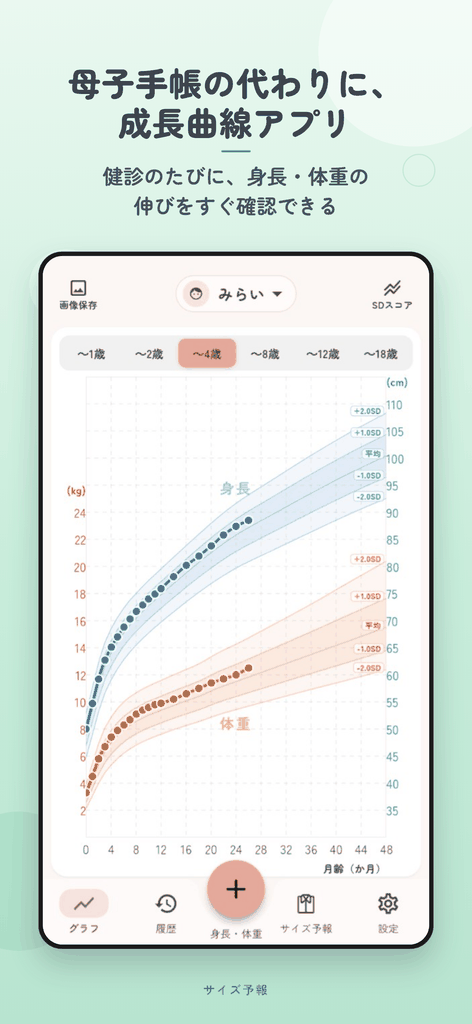
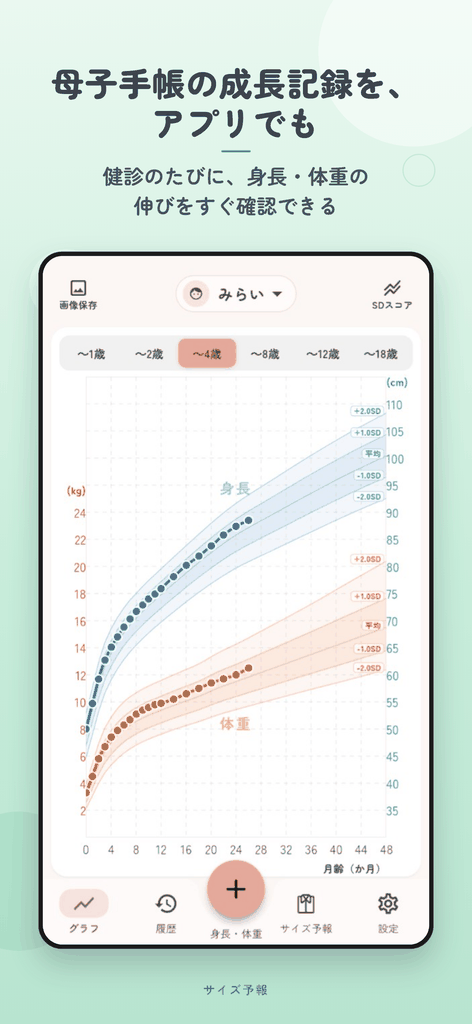
サイトとアプリの文言を信頼感重視で見直し
サイト：開発者紹介を「サイズ予報を作った理由」に書き換え、
スライドの「母子手帳の代わりに」を「母子手帳の成長記録を、アプリでも」に変更、
成長曲線の根拠を「日本小児内分泌学会が公開する標準値」に統一、
サブスク説明の短縮（24時間前表記を削除）、自動バックアップに（写真を除く）を明記、
料金カードに広告あり・「無料版の全機能に加えて」を追記、FAQの入れ替え、
表記統一（Pro版・App Store・Google Play・0円・月額100円）、
リリース通知のメール取得目的をプライバシーポリシーに追記。
アプリ：根拠説明・ペイウォールの定期購入説明・写真除外の注記・ストア名表記を同様に修正。

Changed region(s): [[0.1186, 0.0625, 0.8305, 0.1562]]

diff --git a/docs/index.html b/docs/index.html
@@ -381,6 +381,17 @@
     .plan-card.pro h3 { color: var(--gold); }
     .plan-card.pro .plan-price { color: #8A7B55; }
     .plan-card.pro li::before { content: "✨ "; }
+    .plan-card .plan-lead {
+      font-size: 0.88rem;
+      font-weight: 700;
+      color: #55606B;
+      margin-bottom: 8px;
+    }
+    .plan-card .plan-note {
+      font-size: 0.8rem;
+      color: #777;
+      margin-top: 10px;
+    }
 
     /* ── 比較表 ── */
     .compare-wrap { overflow-x: auto; }
@@ -531,7 +542,7 @@
   <div class="container">
     <section>
       <h2>服・靴・おむつ、3つのサイズ予報</h2>
-      <p class="lead">「気づいたら小さくなっていた」を、記録から先回り。主役はこの3つです。</p>
+      <p class="lead">「気づいたら小さくなっていた」を、成長の記録から先回りします。</p>
       <div class="features">
         <div class="feature">
           <span class="icon" aria-hidden="true"><svg viewBox="0 0 24 24"><path d="M8.2 4 4.5 7.3l2 2.6L8 8.8V20h8V8.8l1.5 1.1 2-2.6L15.8 4c-.9 1.4-2.2 2.1-3.8 2.1S9.1 5.4 8.2 4Z"/></svg></span>
@@ -557,13 +568,13 @@
 
   <div class="container-wide">
     <section class="screenshots-section">
-      <h2>こんなアプリです</h2>
+      <h2>画面で見る、サイズ予報</h2>
       <div class="screenshot-carousel" id="screenshot-carousel" tabindex="0" role="group" aria-roledescription="カルーセル" aria-label="アプリのスクリーンショット">
         <figure class="screenshot-slide">
-          <img src="store-assets/slide-05-overview.png" alt="成長曲線で、服・靴・おむつのサイズを予報" width="472" height="1024" loading="eager">
+          <img src="store-assets/slide-05-overview.png" alt="服・靴・おむつのサイズを、まとめて予報" width="472" height="1024" loading="eager">
         </figure>
         <figure class="screenshot-slide">
-          <img src="store-assets/slide-01-growth-curve.png" alt="母子手帳の成長曲線、アプリでかんたん記録" width="472" height="1024" loading="lazy">
+          <img src="store-assets/slide-01-growth-curve.png" alt="母子手帳の成長記録を、アプリでも" width="472" height="1024" loading="lazy">
         </figure>
         <figure class="screenshot-slide">
           <img src="store-assets/slide-02-sd-score.png" alt="健診の準備に、成長の記録を" width="472" height="1024" loading="lazy">
@@ -595,7 +606,7 @@
         <h2>はじめかた（3ステップ）</h2>
         <div class="steps">
           <div class="step"><strong>お子様を登録</strong>：生年月日と性別に加え、アイコンとテーマカラーも選べます。きょうだいの登録もOK。早産児の場合は修正月齢の設定もできます。</div>
-          <div class="step"><strong>身長・体重・足長を記録</strong>：健診や身体測定のタイミングでOK。数回の記録から傾向をつかみます。</div>
+          <div class="step"><strong>身長・体重・足長を記録</strong>：健診や身体測定のタイミングでOK。まず1件の記録から使えます。</div>
           <div class="step"><strong>予報をチェック</strong>：洋服・おむつサイズの目安を確認。靴の次の購入予報はPro版で表示されます。</div>
         </div>
       </section>
@@ -609,13 +620,8 @@
       <div class="features">
         <div class="feature">
           <span class="icon" aria-hidden="true"><svg viewBox="0 0 24 24"><path d="M4 17.5 9 12l3.5 3L20 6.5"/><circle cx="9" cy="12" r="1.5" fill="currentColor" stroke="none"/><circle cx="12.5" cy="15" r="1.5" fill="currentColor" stroke="none"/><circle cx="20" cy="6.5" r="1.5" fill="currentColor" stroke="none"/><circle cx="4" cy="17.5" r="1.5" fill="currentColor" stroke="none"/></svg></span>
-          <h3>健診でもすぐ説明できる成長記録</h3>
-          <p>母子手帳と同系統の公的基準に基づく成長曲線に、身長・体重をプロット。SDスコア（同年齢の平均からの離れぐあい）の推移もひと目でわかります。</p>
-        </div>
-        <div class="feature">
-          <span class="icon" aria-hidden="true"><svg viewBox="0 0 24 24"><rect x="4" y="4" width="16" height="16" rx="2.5"/><path d="M4 15.5 9 11l4 3.5 3-2.5 4 3.5"/><circle cx="9.5" cy="8.5" r="1.4" fill="currentColor" stroke="none"/></svg></span>
-          <h3>グラフもガイドも、そのまま画像で残せる</h3>
-          <p>成長曲線・SDスコア・サイズガイドを、共有しやすい正方形の画像で保存（Pro版）。家族への共有や成長の記念に。</p>
+          <h3>健診で見せやすい成長記録</h3>
+          <p>日本小児内分泌学会が公開する標準値に基づく成長曲線に、身長・体重をプロット。SDスコア（同年齢の平均からの離れぐあい）の推移もひと目でわかります。</p>
         </div>
         <div class="feature">
           <span class="icon" aria-hidden="true"><svg viewBox="0 0 24 24"><rect x="5" y="4" width="14" height="17" rx="2"/><rect x="9" y="2.5" width="6" height="3.5" rx="1.2"/><path d="M8 11h8M8 14.5h8M8 18h5"/></svg></span>
@@ -698,11 +704,11 @@
   <div class="container">
     <section>
       <h2>料金</h2>
-      <p class="lead">主要機能は無料。靴の先読み予報・画像保存・自動バックアップなどは Pro でご利用いただけます。</p>
+      <p class="lead">主要機能は無料。靴の先読み予報・画像保存・自動バックアップなどはPro版でご利用いただけます。</p>
       <div class="plan-cards">
         <div class="plan-card">
           <h3>無料版</h3>
-          <p class="plan-price">¥0</p>
+          <p class="plan-price">0円</p>
           <ul>
             <li>成長曲線・SDスコアの記録</li>
             <li>洋服・おむつサイズの目安</li>
@@ -710,14 +716,16 @@
             <li>受診レポート（PDF）</li>
             <li>お誕生日アルバム・手動バックアップ</li>
           </ul>
+          <p class="plan-note">※広告が表示されます</p>
         </div>
         <div class="plan-card pro">
-          <h3>サイズ予報 Pro</h3>
-          <p class="plan-price">月額 ¥100／年額 ¥980（月あたり約¥82）</p>
+          <h3>Pro版</h3>
+          <p class="plan-price">月額100円／年額980円（月あたり約82円）</p>
+          <p class="plan-lead">無料版の全機能に加えて</p>
           <ul>
             <li>靴の次の購入サイズと時期の予報</li>
             <li>グラフ・ガイドの画像保存（共有しやすい正方形）</li>
-            <li>オンライン自動バックアップ</li>
+            <li>オンライン自動バックアップ（写真を除く）</li>
             <li>広告非表示</li>
           </ul>
         </div>
@@ -780,7 +788,7 @@
               <td class="yes">○</td>
             </tr>
             <tr>
-              <td>オンライン自動バックアップ</td>
+              <td>オンライン自動バックアップ（写真を除く）</td>
               <td class="no">—</td>
               <td class="yes">○</td>
             </tr>
@@ -804,29 +812,23 @@
       </div>
       </details>
       <p class="pro-note">
-        価格は消費税込み。お支払いは App Store / Google Play のアカウントに請求されます。
-        サブスクリプションは自動更新されます。更新日の24時間前までに、各ストアの
-        アカウント設定から解約しない限り、同じ期間・同じ価格で更新されます。
-        解約手続きは App Store または Google Play の「定期購入」設定から行えます。
+        料金は税込です。定期購入は自動更新され、各ストアのアカウントに請求されます。
+        解約は App Store または Google Play の定期購入設定から行えます。
       </p>
     </section>
 
     <section>
       <div class="cta">
-        <p>App Store / Google Play で公開準備中です</p>
+        <p>App Store・Google Play で公開準備中です</p>
         <a class="button" href="https://docs.google.com/forms/d/e/1FAIpQLSfmVQ7BpgNVbbQRa-yVXuwOElXEzipLZ9OD_MH7jW-y5zW2qQ/viewform" target="_blank" rel="noopener noreferrer">リリース通知を受け取る</a>
       </div>
     </section>
 
     <section>
-      <h2>作った人より</h2>
+      <h2>サイズ予報を作った理由</h2>
       <div class="about-card">
-        <p><strong>MIYA APPS</strong>（個人事業主）が開発・運営しています。</p>
-        <p>子育て中の保護者目線で、「服・靴・おむつの買い替えタイミングがわからない」という日常の悩みを、成長記録アプリで解決したいと考えて作りました。</p>
-        <p>
-          お問い合わせ：<a href="contact.html">お問い合わせページ</a><br>
-          プライバシー：<a href="privacy.html">プライバシーポリシー</a>
-        </p>
+        <p>子どもの服を買うたびに、「来シーズンは何cmだろう」と迷ったことが、開発のきっかけです。成長の記録を残すだけでなく、毎日の買い物にも役立てられるアプリを目指しています。</p>
+        <p>開発・運営：MIYA APPS</p>
       </div>
     </section>
 
@@ -837,16 +839,20 @@
         <p>成長曲線の記録・洋服やおむつサイズの目安・受診レポート（PDF）・お誕生日アルバムなど、主要な機能は無料でお使いいただけます。靴の次の購入予報・画像保存・オンライン自動バックアップはPro版の機能です。</p>
       </details>
       <details>
-        <summary>おむつのサイズも見られますか？</summary>
-        <p>見られます。お子様ごとに「おむつガイド」をONにすると、各メーカーが公表している対応体重と体重の記録から、いまの目安サイズとサイズが切り替わる時期を表示します。よく使うブランド・シリーズ・タイプ（テープ／パンツ）を登録して使えます。</p>
+        <summary>記録が1件でも使えますか？</summary>
+        <p>使えます。身長・体重・足長それぞれ1件の記録から目安を表示します。記録が増えるほどお子様ご自身の成長トレンドが反映され、予報が安定します。</p>
       </details>
       <details>
-        <summary>予測はどのくらい当たりますか？</summary>
-        <p>公的な成長曲線とお子様ご自身の記録をもとにした統計的な目安です。成長には個人差がありますので、あくまで買い物の参考としてご活用ください。</p>
+        <summary>何歳まで使えますか？</summary>
+        <p>成長曲線・SDスコアは0歳から18歳まで記録できます。洋服サイズ予報は身長50〜160cmのJISサイズ帯に対応し、おむつ・靴の予報は乳幼児期を中心にお使いいただけます。</p>
+      </details>
+      <details>
+        <summary>表示されるサイズは確定ですか？</summary>
+        <p>いいえ。直近の記録と標準値から算出した目安です。成長には個人差があり、衣類・靴・おむつは商品によって着用感も異なります。購入時は実寸や試着結果もあわせてご確認ください。</p>
       </details>
       <details>
         <summary>成長曲線はどんな基準に基づいていますか？</summary>
-        <p>2000年度の乳幼児身体発育調査（厚生労働省）・学校保健統計（文部科学省）に基づく成長曲線を使用しています。この基準は現在も小児医療の現場で標準的に用いられており、母子手帳の成長曲線とも同じ系統です。</p>
+        <p>日本小児内分泌学会が公開している、2000年の乳幼児身体発育調査（厚生労働省）と学校保健統計（文部科学省）をもとにLMS法で作成された標準値を使用しています。</p>
       </details>
       <details>
         <summary>別のアプリや母子手帳の記録を引き継げますか？</summary>

diff --git a/docs/privacy.html b/docs/privacy.html
@@ -78,7 +78,10 @@
       <p>無料版では、アプリ運営のために広告を表示します。広告の配信にあたり、広告配信事業者（Google AdMob）が広告用の識別子などの情報を取得する場合があります。お子様の記録データが広告事業者へ渡ることはありません。</p>
 
       <h3>（4）購入情報</h3>
-      <p>Pro版の購入手続きは App Store / Google Play が処理します。開発者がクレジットカード番号などの決済情報を取得することはありません。</p>
+      <p>Pro版の購入手続きは App Store・Google Play が処理します。開発者がクレジットカード番号などの決済情報を取得することはありません。</p>
+
+      <h3>（5）リリース通知の登録情報</h3>
+      <p>公式サイトの「リリース通知を受け取る」フォームにご記入いただいたメールアドレスは、本アプリの公開・アップデートのお知らせを送る目的でのみ利用します。お知らせの配信後も、この目的以外に利用したり第三者に提供したりすることはありません。配信の停止をご希望の場合は、お問い合わせフォームからご連絡ください。</p>
 
       <h2>2. 第三者への提供</h2>
       <p>法令に基づく場合を除き、取得した情報を第三者に提供することはありません。上記の目的の範囲で、Google LLC のサービス（Firebase・AdMob）を利用します。</p>
@@ -96,7 +99,7 @@
       <h2>6. お問い合わせ</h2>
       <p><a href="contact.html">お問い合わせページ</a>の Googleフォームからご連絡ください。</p>
 
-      <p class="meta">制定日：2026年7月7日／最終改定日：2026年8月1日<br>MIYA APPS（サイズ予報 運営者）</p>
+      <p class="meta">制定日：2026年7月7日／最終改定日：2026年8月14日<br>MIYA APPS（サイズ予報 運営者）</p>
     </div>
   </div>
 

diff --git a/lib/monetization/pro_paywall.dart b/lib/monetization/pro_paywall.dart
@@ -102,7 +102,7 @@ class _ProPaywallSheetState extends State<_ProPaywallSheet> {
               icon: Icons.cloud_done_outlined,
               scheme: scheme,
               title: 'オンライン自動バックアップ',
-              body: '機種変更や故障に備えて記録を自動でクラウドに保存',
+              body: '機種変更や故障に備えて記録を自動でクラウドに保存（写真を除く）',
             ),
             _feature(
               icon: Icons.block_flipped,
@@ -154,8 +154,9 @@ class _ProPaywallSheetState extends State<_ProPaywallSheet> {
             ),
             const SizedBox(height: 2),
             Text(
-              '価格はすべて消費税込みです。\n'
-              'お支払いは App Store / Google Play のアカウントに請求されます。',
+              '料金は税込です。定期購入は自動更新され、各ストアのアカウントに'
+              '請求されます。\n'
+              '解約は App Store・Google Play の定期購入設定から行えます。',
               textAlign: TextAlign.center,
               style: TextStyle(
                 fontSize: 10.5,

diff --git a/lib/screens/about_app_screen.dart b/lib/screens/about_app_screen.dart
@@ -39,9 +39,8 @@ class AboutAppScreen extends StatelessWidget {
                   title: '成長曲線・SDスコア',
                   body:
                       '厚生労働省「乳幼児身体発育調査」および文部科学省'
-                      '「学校保健統計調査」（いずれも2000年度）をもとにした、'
-                      '日本小児内分泌学会推奨の標準値を使用しています。'
-                      '母子健康手帳の成長曲線と同じ系統の公的データです。\n\n'
+                      '「学校保健統計調査」（いずれも2000年度）をもとに、'
+                      '日本小児内分泌学会が公開している標準値を使用しています。\n\n'
                       '数値の位置づけ（SDスコア）は、国際的に用いられている'
                       'LMS法で計算しています。基準点の間の月齢は、値を'
                       '歪めない単調3次補間でなめらかにつないでいます。',

diff --git a/lib/screens/privacy_policy_screen.dart b/lib/screens/privacy_policy_screen.dart
@@ -13,7 +13,7 @@ class PrivacyPolicyScreen extends StatelessWidget {
 
   static const Color _background = Color(0xFFF6F6F8);
   static const String _establishedAt = '2026年7月7日';
-  static const String _revisedAt = '2026年8月1日';
+  static const String _revisedAt = '2026年8月14日';
 
   @override
   Widget build(BuildContext context) {
@@ -89,7 +89,7 @@ class PrivacyPolicyScreen extends StatelessWidget {
                       ),
                       _sub('（4）購入情報'),
                       Text(
-                        'Pro版の購入手続きは App Store / Google Play が'
+                        'Pro版の購入手続きは App Store・Google Play が'
                         '処理します。開発者がクレジットカード番号などの'
                         '決済情報を取得することはありません。',
                         style: _bodyStyle,

diff --git a/lib/screens/faq_screen.dart b/lib/screens/faq_screen.dart
@@ -64,9 +64,8 @@ class FaqScreen extends StatelessWidget {
                   question: '成長曲線のもとになっているデータは？',
                   answer:
                       '厚生労働省「乳幼児身体発育調査」と文部科学省「学校保健統計'
-                      '調査」（いずれも2000年度）をもとにした、日本小児内分泌学会'
-                      '推奨の基準値を使用しています。母子手帳の成長曲線と同じ'
-                      '系統のデータです。',
+                      '調査」（いずれも2000年度）をもとに、日本小児内分泌学会が'
+                      '公開しているLMS法の標準値を使用しています。',
                 ),
               ]),
               const SizedBox(height: 16),

diff --git a/lib/widgets/account_sign_in_sheet.dart b/lib/widgets/account_sign_in_sheet.dart
@@ -40,7 +40,7 @@ class _AccountSignInSheet extends StatelessWidget {
             Text(
               '機種変更や端末の故障に備えて、記録をクラウドに'
               '保存するためのアカウントです。\n'
-              'Pro版のお支払いは App Store / Google Play で'
+              'Pro版のお支払いは App Store・Google Play で'
               '行い、ここでのサインインは不要です。',
               textAlign: TextAlign.center,
               style: TextStyle(

diff --git a/lib/monetization/purchase_manager.dart b/lib/monetization/purchase_manager.dart
@@ -58,7 +58,7 @@ class PurchaseManager {
   /// 開始できなかった場合のみ利用者向けメッセージを返す。
   Future<String?> buy(String productId) async {
     if (!_supported || !storeAvailable.value) {
-      return 'この環境では購入できません。アプリ版（App Store / Google Play）をご利用ください';
+      return 'この環境では購入できません。アプリ版（App Store・Google Play）をご利用ください';
     }
     busy.value = true;
     try {

diff --git a/docs/contact.html b/docs/contact.html
@@ -109,7 +109,7 @@
       <p class="note">
         ・お子様の健康状態に関するご相談にはお答えできません。気になる場合は
         かかりつけ医・保健師にご相談ください。<br>
-        ・通常、2〜5営業日以内に返信します（個人運営のため遅れる場合があります）。
+        ・通常、2〜5営業日以内を目安に返信します。
       </p>
     </div>
 

diff --git a/docs/store-assets/slide-05-overview.html b/docs/store-assets/slide-05-overview.html
@@ -18,7 +18,7 @@
 
   <div class="content">
     <div class="headline">
-      <h1>成長曲線で、服・靴・<br>おむつのサイズを予報</h1>
+      <h1>服・靴・おむつの<br>サイズを、まとめて予報</h1>
       <div class="accent-line"></div>
       <p>身長・体重を記録するだけで、<br>買い替え時期が見える</p>
     </div>

diff --git a/docs/store-assets/slide-01-growth-curve.html b/docs/store-assets/slide-01-growth-curve.html
@@ -18,7 +18,7 @@
 
   <div class="content">
     <div class="headline">
-      <h1>母子手帳の代わりに、<br>成長曲線アプリ</h1>
+      <h1>母子手帳の成長記録を、<br>アプリでも</h1>
       <div class="accent-line"></div>
       <p>健診のたびに、身長・体重の<br>伸びをすぐ確認できる</p>
     </div>

diff --git a/docs/store-assets/README.md b/docs/store-assets/README.md
@@ -27,8 +27,8 @@
 
 | # | HTML | スクショ | 大きい文字 | 小さい文字 |
 |---|------|----------|------------|------------|
-| 1 | `slide-05-overview.html` | 成長曲線＋洋服ガイド | 成長曲線で、服・靴・おむつのサイズを予報 | 身長・体重を記録するだけで、買い替え時期が見える |
-| 2 | `slide-01-growth-curve.html` | 成長曲線 | 母子手帳の代わりに、成長曲線アプリ | 健診のたびに、身長・体重の伸びをすぐ確認できる |
+| 1 | `slide-05-overview.html` | 成長曲線＋洋服ガイド | 服・靴・おむつのサイズを、まとめて予報 | 身長・体重を記録するだけで、買い替え時期が見える |
+| 2 | `slide-01-growth-curve.html` | 成長曲線 | 母子手帳の成長記録を、アプリでも | 健診のたびに、身長・体重の伸びをすぐ確認できる |
 | 3 | `slide-02-sd-score.html` | SDスコア | 健診の準備に、成長の記録を | 身長・体重のSDスコアをいつでも確認できる |
 | 4 | `slide-03-clothing-guide.html` | 洋服ガイド | 来シーズン、何cmを買えばいい？ | 成長トレンドから季節ごとのサイズを予報 |
 | 5 | `slide-04-shoe-guide.html` | 靴ガイド | 「足痛い」と言われる前に、気づける | 小さくなる前に、買い替えのタイミングがわかる |
